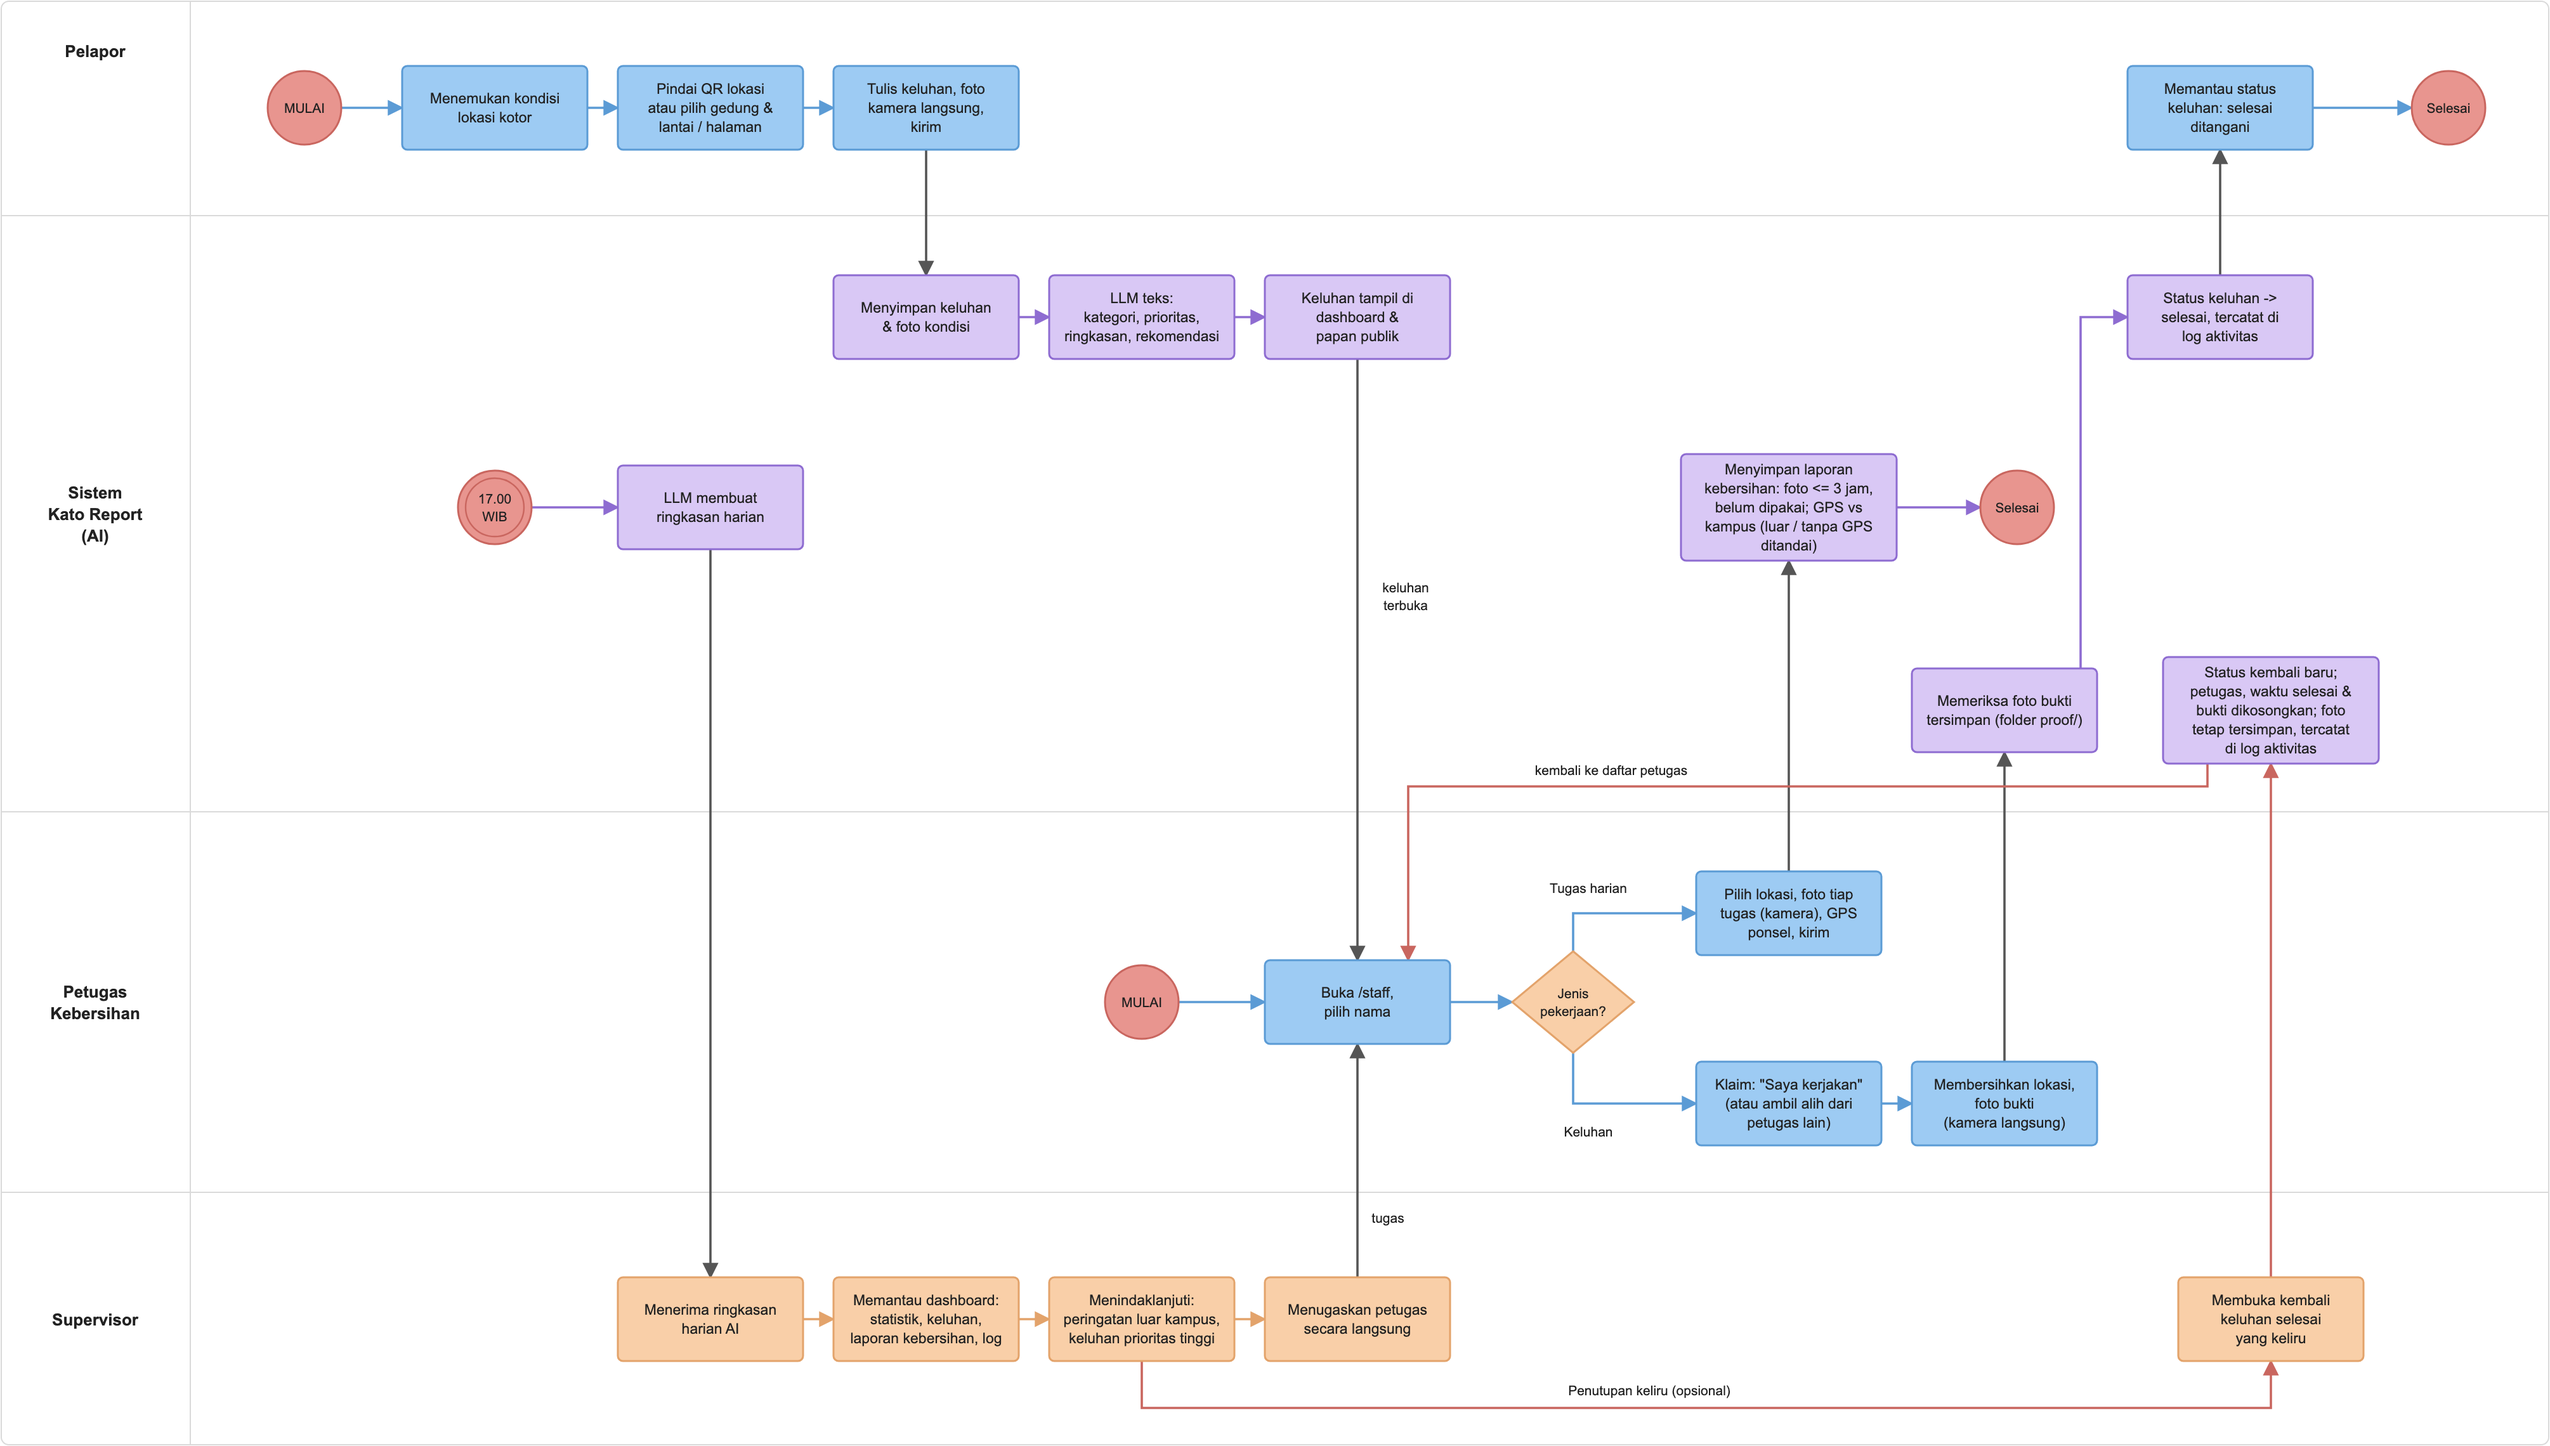
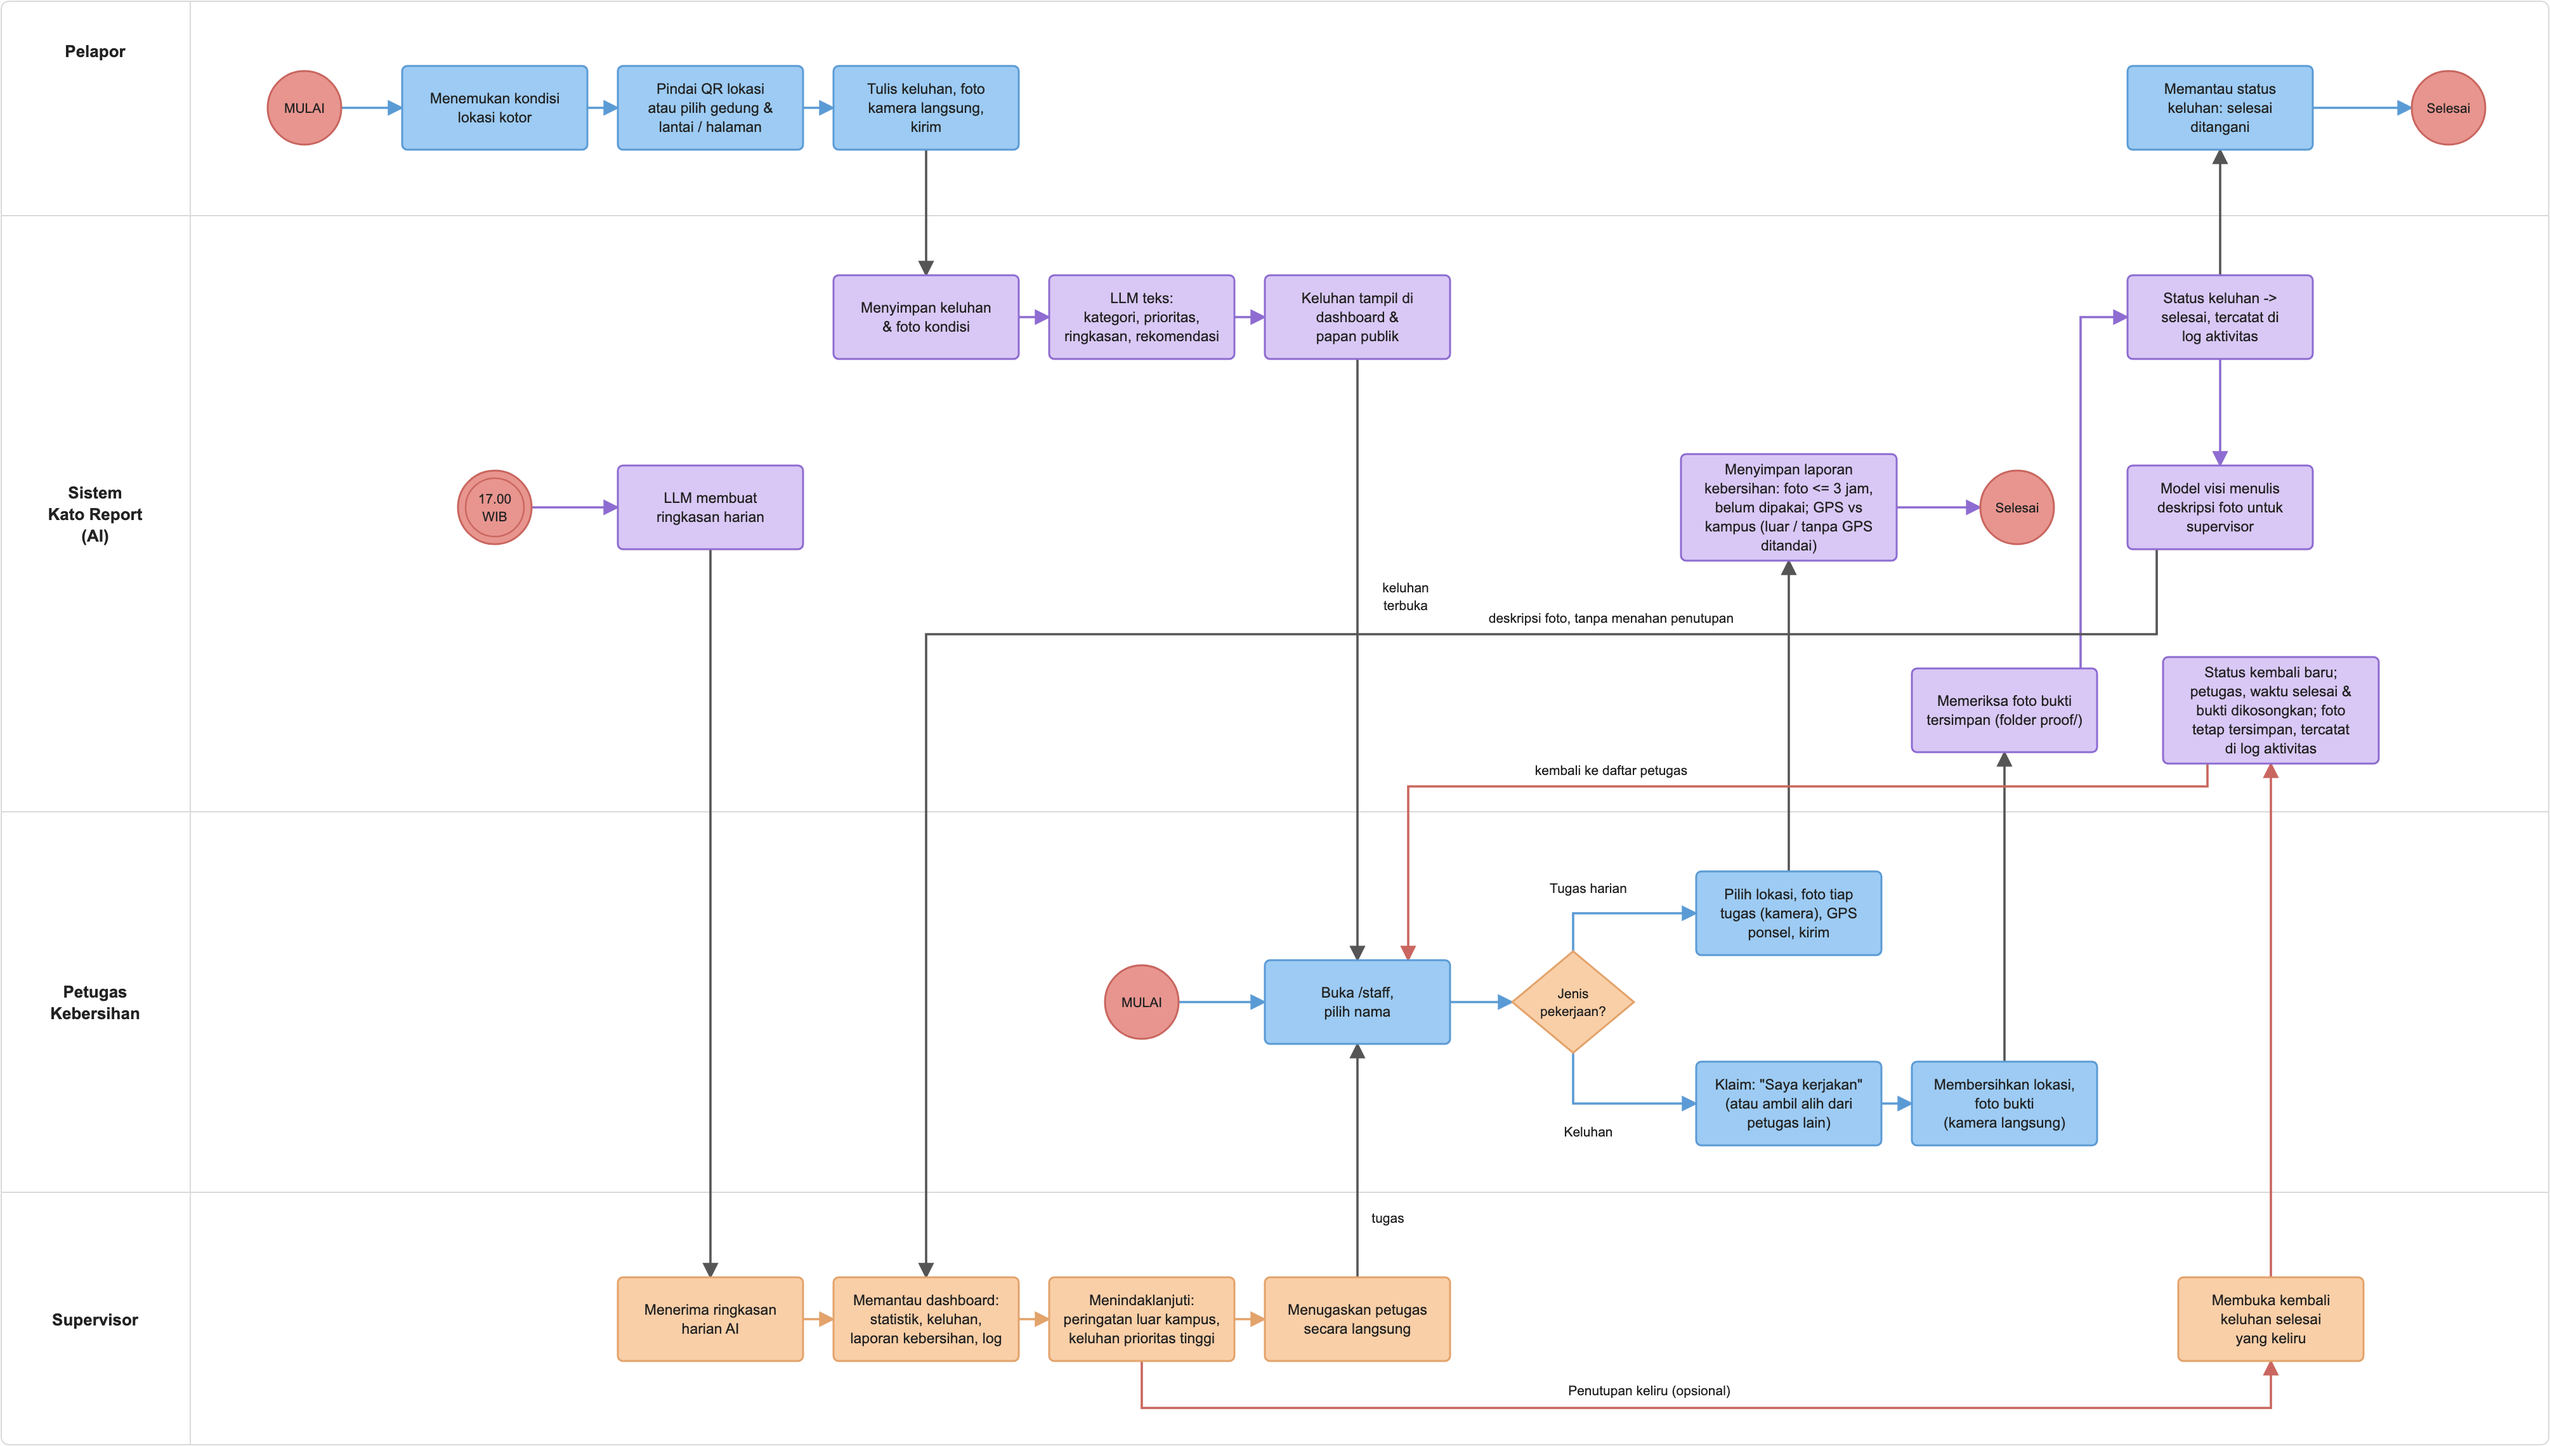
feat: add LLM Vision support and update BPMN and DFD diagrams

Changed region(s): [[0.8085, 0.3114, 0.9328, 0.4048]]

diff --git a/docs/diagram/src/dfd.py b/docs/diagram/src/dfd.py
@@ -35,22 +35,25 @@ def store(d, key, x, y, code, dup=False, left=None):
 # ====================================================================== Level 0
 @diagram('dfd-level-0')
 def level0():
-    d = Diagram(1500, 930, 'DFD Level 0 — Diagram Konteks Kato Report', SUB)
+    d = Diagram(1500, 980, 'DFD Level 0 — Diagram Konteks Kato Report', SUB)
     d.process('sys', 750, 540, '0', 'Kato Report:\nSistem Pelaporan\nKebersihan Kampus', r=118)
     d.entity('plp', 180, 290, 'Pelapor\n(siapa saja)')
     d.entity('ptg', 180, 790, 'Petugas\nKebersihan')
     d.entity('spv', 750, 140, 'Supervisor')
-    d.entity('llm', 1320, 290, 'LLM Teks\n(DeepSeek)')
-    d.entity('cron', 1320, 800, 'Penjadwal\n(Cron 17.00 WIB)')
+    d.entity('llm', 1320, 210, 'LLM Teks\n(DeepSeek)')
+    d.entity('vis', 1320, 540, 'LLM Vision\n(Gemini)')
+    d.entity('cron', 1320, 870, 'Penjadwal\n(Cron 17.00 WIB)')
 
     d.flow('plp', 'sys', 'lokasi (QR / pilihan), keluhan,\nfoto kondisi, data akun & login,\npertanyaan Kato Bot')
     d.flow('sys', 'plp', 'ID & status keluhan,\npapan publik & peringkat,\njawaban Kato Bot')
     d.flow('ptg', 'sys', 'nama petugas, klaim / ambil alih,\nfoto bukti, tugas harian\n(foto + posisi GPS)')
     d.flow('sys', 'ptg', 'keluhan terbuka, status\nkeluhan, status lokasi\nlaporan kebersihan')
     d.flow('spv', 'sys', 'kredensial, data akun\n& petugas, filter waktu,\nperintah analisis ulang /\nbuka kembali / hapus /\nbuat ulang ringkasan', t=0.32)
-    d.flow('sys', 'spv', 'dashboard & statistik,\nlaporan keluhan &\nkebersihan, log aktivitas,\nringkasan AI, stiker QR', t=0.68)
+    d.flow('sys', 'spv', 'dashboard & statistik,\nlaporan keluhan &\nkebersihan, log aktivitas,\nringkasan AI, deskripsi foto,\nstiker QR', t=0.68)
     d.flow('sys', 'llm', 'teks keluhan, laporan harian,\npertanyaan + data agregat')
     d.flow('llm', 'sys', 'kategori, prioritas, ringkasan,\nrekomendasi, ringkasan harian,\njawaban Kato Bot')
+    d.flow('sys', 'vis', 'foto bukti + lokasi + keluhan')
+    d.flow('vis', 'sys', 'deskripsi foto')
     d.flow('cron', 'sys', 'pemicu harian')
     return d
 
@@ -94,7 +97,8 @@ def level1():
     store(d, 'd1', 1000, 660, 'D1')
     store(d, 'd8', 1000, 820, 'D8')
     d.entity('spv_d', 900, 1050, 'Supervisor', dup=True)
-    store(d, 'd7b', 330, 1060, 'D7', dup=True)
+    store(d, 'd7b', 310, 1060, 'D7', dup=True)
+    d.entity('vis', 560, 1065, 'LLM Vision\n(Gemini)')
     store(d, 'd7e', 1440, 1040, 'D7', dup=True)
     d.process('p5', 1440, 820, '5.0', 'Laporkan\nTugas Harian')
     store(d, 'd2b', 1440, 650, 'D2', dup=True)
@@ -103,14 +107,16 @@ def level1():
 
     d.flow('ptg', 'p4', 'filter lokasi, nama, klaim /\nambil alih, foto bukti')
     d.flow('p4', 'ptg', 'keluhan terbuka,\nstatus keluhan')
-    d.flow('d3b', 'p4', 'keluhan terbuka,\npemegang klaim')
-    d.flow('p4', 'd3b', 'klaim, status, data\nbukti, buka kembali')
+    d.flow('d3b', 'p4', 'keluhan terbuka,\npemegang klaim,\nlokasi & keluhan')
+    d.flow('p4', 'd3b', 'klaim, status, data\nbukti, deskripsi foto,\nbuka kembali')
     d.flow('d1', 'p4', 'daftar petugas aktif', side=1)
     d.flow('p4', 'd8', 'foto bukti')
-    d.flow('d8', 'p4', 'foto ada?')
+    d.flow('d8', 'p4', 'foto ada?, berkas foto')
     d.flow('spv_d', 'p4', 'perintah\nbuka kembali', t=0.62)
-    d.flow('p4', 'spv_d', 'konfirmasi /\npenolakan', t=0.38)
-    d.flow('p4', 'd7b', 'log klaim / status /\nbuka kembali', side=-1)
+    d.flow('p4', 'spv_d', 'konfirmasi /\npenolakan', t=0.5)
+    d.flow('p4', 'd7b', 'log klaim / status /\nbuka kembali /\ndeskripsi gagal', side=-1)
+    d.flow('p4', 'vis', 'foto bukti +\nlokasi +\nkeluhan')
+    d.flow('vis', 'p4', 'deskripsi\nfoto')
     d.flow('d1', 'p5', 'petugas aktif?', side=-1)
     d.flow('p5', 'd8', 'foto tugas /\nhapus bila terlalu lama')
     d.flow('d8', 'p5', 'waktu terima foto')
@@ -139,7 +145,7 @@ def level1():
     d.flow('d1c', 'p1', 'hash sandi,\njumlah riwayat')
     d.flow('p1', 'd7b', 'log akun', side=1)
     d.flow('spv', 'p8', 'filter waktu,\nperintah hapus')
-    d.flow('p8', 'spv', 'dashboard, statistik,\nlaporan, log, QR')
+    d.flow('p8', 'spv', 'dashboard, statistik,\nlaporan + deskripsi\nfoto, log, QR')
     d.flow('d2c', 'p8', 'lokasi', t=0.6, side=1)
     d.flow('d3c', 'p8', 'keluhan', t=0.3)
     d.flow('p8', 'd3c', 'hapus keluhan', t=0.85)
@@ -301,7 +307,7 @@ def l2_3():
 
 @diagram('dfd-level-2-4')
 def l2_4():
-    d = Diagram(1900, 1120, title2('4.0', 'Tangani Keluhan'), SUB2)
+    d = Diagram(1900, 1460, title2('4.0', 'Tangani Keluhan'), SUB2)
     d.entity('ptg', 150, 520, 'Petugas\nKebersihan')
     d.entity('ptg2', 1570, 860, 'Petugas\nKebersihan', dup=True)
     d.entity('spv', 1740, 400, 'Supervisor')
@@ -310,6 +316,8 @@ def l2_4():
     d.process('c', 520, 860, '4.3', 'Terima\nFoto Bukti')
     d.process('e', 1000, 860, '4.4', 'Perbarui Status\n(Selesai)')
     d.process('f', 1400, 400, '4.5', 'Buka Kembali\nKeluhan')
+    d.process('g', 1000, 1290, '4.6', 'Deskripsikan\nFoto (AI)')
+    d.entity('vis', 1570, 1290, 'LLM Vision\n(Gemini)')
     store(d, 'd1', 250, 105, 'D1')
     store(d, 'd3', 800, 105, 'D3')
     store(d, 'd3c', 1010, 520, 'D3', dup=True)
@@ -319,6 +327,7 @@ def l2_4():
     store(d, 'd3e', 1180, 1050, 'D3', dup=True)
     store(d, 'd3d', 1400, 190, 'D3', dup=True)
     store(d, 'd7b', 1400, 660, 'D7', dup=True)
+    store(d, 'd7c', 480, 1290, 'D7', dup=True)
 
     d.flow('ptg', 'a', 'filter gedung\n& lantai', t=0.7)
     d.flow('a', 'ptg', 'keluhan terbuka\n+ ringkasan AI', t=0.3)
@@ -338,7 +347,14 @@ def l2_4():
     d.flow('e', 'd3e', 'status, nama, waktu\nselesai, kunci foto', side=1)
     d.flow('e', 'd7b', 'log perubahan status', side=1, t=0.45)
     d.flow('ptg2', 'e', 'nama, konfirmasi', t=0.4)
-    d.flow('e', 'ptg2', 'status selesai /\npenolakan (400)', t=0.6)
+    d.flow('e', 'ptg2', 'status selesai /\npenolakan (400, 409)', t=0.6)
+    d.flow('e', 'g', 'kunci foto bukti: sesudah status\nselesai & jawaban terkirim;\ntidak bisa menolak', t=0.68, side=1)
+    d.flow('d8', 'g', 'berkas foto', side=-1)
+    d.flow('d3e', 'g', 'lokasi, keluhan', t=0.45)
+    d.flow('g', 'd3e', 'deskripsi foto (bila kunci\nfoto masih sama)', t=0.45)
+    d.flow('g', 'vis', 'foto bukti + lokasi + keluhan')
+    d.flow('vis', 'g', 'deskripsi foto')
+    d.flow('g', 'd7c', 'log gagal\n(proof_description_failed)', side=-1)
     d.flow('spv', 'f', 'perintah\nbuka kembali', t=0.5)
     d.flow('f', 'spv', 'konfirmasi /\npenolakan (404, 409)', t=0.5)
     d.flow('d3d', 'f', 'penutup, waktu\nselesai, foto bukti', side=-1)

diff --git a/docs/diagram/src/uml-use-case.py b/docs/diagram/src/uml-use-case.py
@@ -41,6 +41,7 @@ uc = {  # id: (x, y, label)
     'sum':     (CM, 290, 'Buat / Buat Ulang Ringkasan'),
     'ai':      (CM, 400, 'Analisis Keluhan (AI)'),
     'qr_scan': (CM, 720, 'Pindai QR / Pilih Lokasi'),
+    'desc':    (CM, 1130, 'Deskripsikan Foto Bukti (AI)'),
     'gps':     (CM, 1215, 'Periksa Posisi GPS'),
     're':      (CR, 610, 'Analisis Ulang Keluhan'),
     'dash':    (CR, 680, 'Pantau Dashboard & Statistik'),
@@ -57,6 +58,7 @@ actors = {  # id: (x, y, label, aktor sistem?)
     'cron': (RIGHT, 70, 'Penjadwal\n(Cron 17.00 WIB)', True),
     'llm':  (RIGHT, 200, 'LLM Teks\n(DeepSeek)', True),
     'spv':  (RIGHT, 640, 'Supervisor', False),
+    'vis':  (RIGHT, 1170, 'LLM Vision\n(Gemini)', True),
 }
 assoc = [
     ('plp', 'pub'), ('plp', 'rank'), ('plp', 'reg'), ('plp', 'lapor'), ('plp', 'lacak'),
@@ -64,6 +66,7 @@ assoc = [
     ('ptg', 'open'), ('ptg', 'claim'), ('ptg', 'take'), ('ptg', 'done'), ('ptg', 'daily'),
     ('cron', 'sum'),
     ('llm', 'ask'), ('llm', 'sum'), ('llm', 'ai'),
+    ('vis', 'desc'),
     ('spv', 'login'), ('spv', 'ask'), ('spv', 'sum'), ('spv', 'dash'), ('spv', 'rep'), ('spv', 're'),
     ('spv', 'logs'), ('spv', 'acct'), ('spv', 'del'), ('spv', 'qr'), ('spv', 'reopen'),
 ]
@@ -71,7 +74,7 @@ assoc = [
 # petugas untuk melihat keluhan, dan tugas harian dimulai dari lokasi yang sama.
 includes = [('lapor', 'ai'), ('re', 'ai'), 
             ('lapor', 'qr_scan'), ('open', 'qr_scan'),
-            ('daily', 'gps')]
+            ('daily', 'gps'), ('done', 'desc')]
 extends = [('take', 'claim')]   # Ambil Alih memperluas Klaim
 label_below = {('re', 'ai')}
 

diff --git a/docs/diagram/src/bpmn.py b/docs/diagram/src/bpmn.py
@@ -88,6 +88,7 @@ add(box, C, RA, 'Menyimpan keluhan\n& foto kondisi', PU)
 add(box, D, RA, 'LLM teks:\nkategori, prioritas,\nringkasan, rekomendasi', PU)
 add(box, E, RA, 'Keluhan tampil di\ndashboard &\npapan publik', PU)
 add(box, I, RA, 'Status keluhan ->\nselesai, tercatat di\nlog aktivitas', PU)
+add(box, I, RB, 'Model visi menulis\ndeskripsi foto untuk\nsupervisor', PU)
 add(event, A, RB, '17.00\nWIB', True)
 add(box, B, RB, 'LLM membuat\nringkasan harian', PU)
 add(box, G, RB, 'Menyimpan laporan\nkebersihan: foto <= 3 jam,\nbelum dipakai; GPS vs\nkampus (luar / tanpa GPS\nditandai)', PU, w=170, h=84)
@@ -150,6 +151,9 @@ arrow([(G + 73, TY), (Hh - 73, TY)], BLUE)
 arrow([(Hh, TY - 33), (Hh, RC + 33)], GRAY)
 arrow([(1640, RC - 33), (1640, RA), (I - 73, RA)], PURP)
 arrow([(I, RA - 33), (I, PY + 33)], GRAY)
+# deskripsi foto: sesudah selesai, tanpa gerbang, tidak menahan apa pun
+arrow([(I, RA + 33), (I, RB - 33)], PURP)
+arrow([(I - 50, RB + 33), (I - 50, 500), (C, 500), (C, SY - 33)], GRAY, 'deskripsi foto, tanpa menahan penutupan', (1270, 487))
 # supervisor membuka kembali keluhan selesai -> kembali ke daftar petugas
 arrow([(D, SY + 33), (D, 1110), (RX, 1110), (RX, SY + 33)], RED, 'Penutupan keliru (opsional)', (1300, 1096))
 arrow([(RX, SY - 33), (RX, RC + 42)], RED)
